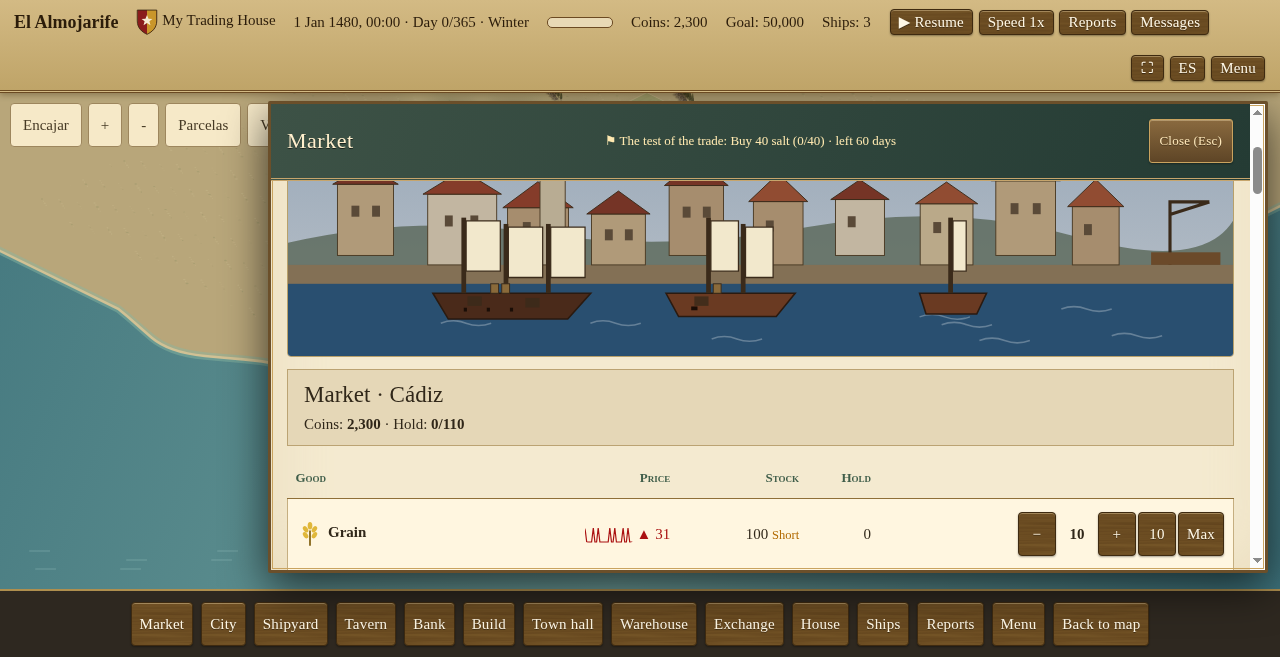
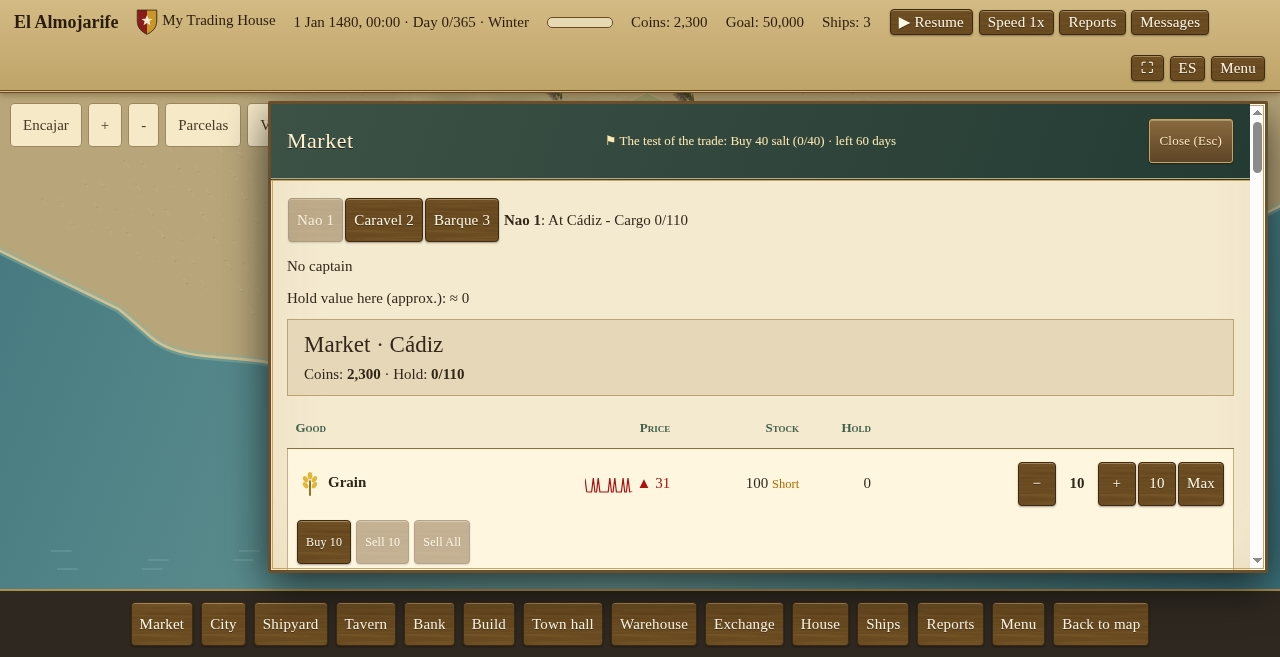
city2d: real docked ships ride at the piers; illustrated port/shipyard scenes removed
Per the owner's art direction (24 Oct): the illustrated SVG scenes in the market
header and the shipyard tab are removed; the port lives in the 2D city canvas.
The player's real docked ships now ride at the harbour piers as city2d modules,
sized by class with the same bob animation; the cosmetic boat only fills an
empty harbour. The iframe asks for a state resend once booted, so a state post
that raced its load is no longer lost. Mechanics unchanged: class/state
descriptors, build orders and their progress text stay as they were; the small
class silhouettes on the order cards stay. README market/shipyard captures
refreshed from this build.

diff --git a/web/index.html b/web/index.html
@@ -12,7 +12,7 @@ body:not(.in-city-3d):not(.has-event) main{grid-template-columns:minmax(300px,1f
 @media(max-width:800px){main{grid-template-columns:1fr}}
 .card{background:#f4ead0;border:1px solid #b8a06a;border-radius:6px;padding:8px}
 svg{width:100%;height:auto;background:#d9c79c;border-radius:4px}
-table{width:100%;border-collapse:collapse}tr.deal td{text-align:left;font-size:12px;border-bottom:1px solid #ccb;padding-bottom:5px}.event{background:#fbe9b8;border:2px solid #a0702a;border-radius:4px;padding:6px 10px;margin:4px 0}.event p{margin:4px 0}.scenebox{border:1px solid #b8a06a;border-radius:4px;overflow:hidden;margin:4px 0}svg.scene{display:block;border-radius:0}.best{font-size:12px;margin:4px 0}.best button{font-size:11px;padding:0 4px}svg.spark{vertical-align:middle;width:48px;height:16px;display:inline-block;background:none}
+table{width:100%;border-collapse:collapse}tr.deal td{text-align:left;font-size:12px;border-bottom:1px solid #ccb;padding-bottom:5px}.event{background:#fbe9b8;border:2px solid #a0702a;border-radius:4px;padding:6px 10px;margin:4px 0}.event p{margin:4px 0}.best{font-size:12px;margin:4px 0}.best button{font-size:11px;padding:0 4px}svg.spark{vertical-align:middle;width:48px;height:16px;display:inline-block;background:none}
 svg.lonja-chart{width:220px;height:56px;display:inline-block;background:#d9c79c;border-radius:4px}
 @media(max-width:700px){svg.lonja-chart{width:150px;height:38px}}small.tr{opacity:.8}td.qty{white-space:nowrap}td.qty button{min-width:26px}td.qty b{display:inline-block;min-width:28px;text-align:center}td,th{padding:2px 4px;text-align:right}td:first-child,th:first-child{text-align:left}
 button{font:inherit;background:#8a6a2f;color:#fff8e6;border:0;border-radius:4px;padding:3px 8px;cursor:pointer;margin:1px}

diff --git a/README.md b/README.md
@@ -32,13 +32,13 @@ You are a small merchant with one cog and a few coins in a harbour town. Buy che
 
 ## Screenshots
 
-_Captured from the playable build (main @ 78687e6, 23 Oct 2026); refresh when the UI changes so they never show unmerged work._
+_Captured from the playable build (main @ cda975a, 24 Oct 2026); refresh when the UI changes so they never show unmerged work._
 
 | The 3D port | Trade in the market |
 |---|---|
 | ![3D port view with the city toolbar](docs/img/port3d.png) | ![Market with prices, charts and cheap/dear arrows](docs/img/market.png) |
-| **The sea chart** | **Build ships at the slipway** |
-| ![Sea chart with ports, routes and the port panel](docs/img/map.png) | ![Shipyard slipway scene](docs/img/shipyard.png) |
+| **The sea chart** | **Build ships at the shipyard** |
+| ![Sea chart with ports, routes and the port panel](docs/img/map.png) | ![Shipyard tab with the ship classes and their orders](docs/img/shipyard.png) |
 | **Tavern: captains and news** | **Bank: loans and interest** |
 | ![Tavern tab](docs/img/tavern.png) | ![Bank tab](docs/img/bank.png) |
 | **Warehouse and steward** | **Create your house** |
